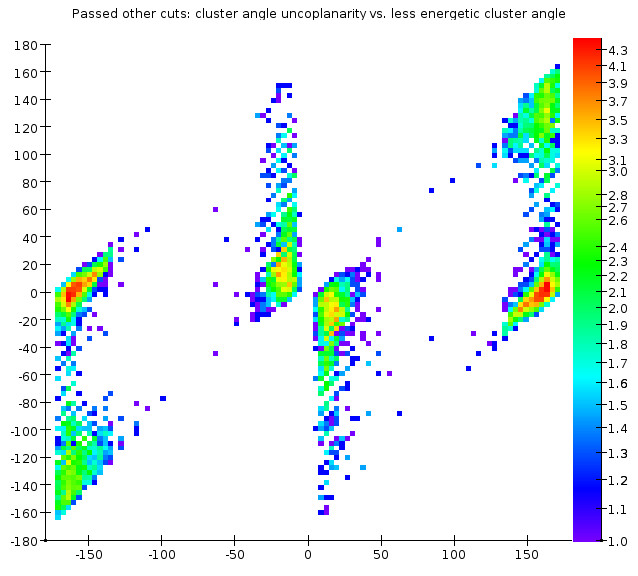
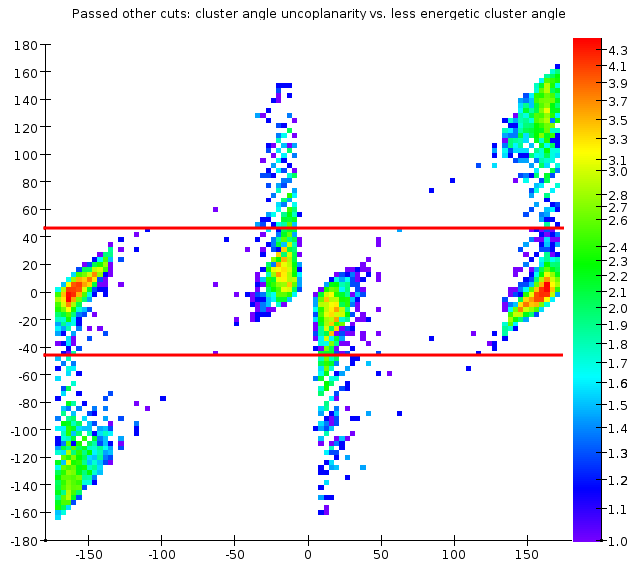
clarifications on trigger plots; updated A' efficiency plot and trigger rates

Changed region(s): [[0.0596, 0.5938, 0.8934, 0.625], [0.0596, 0.375, 0.8934, 0.4062]]

diff --git a/performance/trigger/ecal_trigger.tex b/performance/trigger/ecal_trigger.tex
@@ -12,24 +12,26 @@ This is a faithful simulation of the detector, DAQ and trigger and has been test
 The trigger parameters described in Section \ref{sec:triggerdaq} are chosen by running the simulation and plotting the relevant variables for beam background and A' events. 
 This is done for each beam energy and a set of A' masses for each beam energy. Examples of these comparisons are shown in Figures \ref{fig:coplanarity}, \ref{fig:energy-distance} and \ref{fig:ediff}.
 
+These cuts are chosen to lie between the loosest reasonable values (accept as many A' events as possible) and the tightest (reject as many background events as possible). 
+
 \begin{figure}[ht]
 	\includegraphics[width=0.4\textwidth]{performance/trigger/coplanarity_22}
 	\includegraphics[width=0.4\textwidth]{performance/trigger/coplanarity_22_075mev}
-	\caption{\small{Deviation of cluster pairs from coplanarity (units of degrees) for 2.2 GeV beam; background and 75 MeV A' tridents are shown.}}
+	\caption{\small{Deviation of cluster pairs from coplanarity (units of degrees) for 2.2 GeV beam; background and 75 MeV A' tridents are shown. The X-axis is the azimuth around the beam axis ($\phi_1$) of the lower-energy cluster, such that 0 degrees is the positron side of the detector and 180 degrees is the electron side; the Y-axis is the difference between the azimuth angles ($\phi_1-\phi_2 - 180$) of the two clusters. The coplanarity cut's acceptance region is the space between the red lines.}}
 	\label{fig:coplanarity}
 \end{figure}
 
 \begin{figure}[ht]
 	\includegraphics[width=0.4\textwidth]{performance/trigger/energy-distance_22}
 	\includegraphics[width=0.4\textwidth]{performance/trigger/energy-distance_22_075mev}
-	\caption{\small{Energy and distance from beam axis of the lower-energy cluster, for 2.2 GeV beam; background and 75 MeV A' tridents are shown.}}
+	\caption{\small{Energy and distance from beam axis of the lower-energy cluster, for 2.2 GeV beam; background and 75 MeV A' tridents are shown. The energy-distance cut's acceptance region is above the red line.}}
 	\label{fig:energy-distance}
 \end{figure}
 
 \begin{figure}[ht]
 	\includegraphics[width=0.4\textwidth]{performance/trigger/ediff_22}
 	\includegraphics[width=0.4\textwidth]{performance/trigger/ediff_22_075mev}
-	\caption{\small{Energy sum and difference of cluster pairs, for 2.2 GeV beam; background and 75 MeV A' tridents are shown.}}
+	\caption{\small{Energy sum and difference of cluster pairs, for 2.2 GeV beam; background and 75 MeV A' tridents are shown. The energy difference cut's acceptance region is left of the red line.}}
 	\label{fig:ediff}
 \end{figure}
 
@@ -40,7 +42,7 @@ The following trigger parameters were determined to be independent of beam energ
 	\item Energy-distance energy ($E_{edist}$): $0.5\times E_{beam}$
 \end{itemize}
 
-The remaining trigger parameters given in Section \ref{sec:triggerdaq} do not have a significant effect on specificity of the trigger.
+The remaining trigger parameters available in Section \ref{sec:triggerdaq} do not have a significant effect on specificity of the trigger.
 
 \begin{table}
 	\begin{tabular}{|l|r|r|r|}
@@ -58,8 +60,9 @@ The remaining trigger parameters given in Section \ref{sec:triggerdaq} do not ha
 
 Trigger efficiency for A' events is defined as the fraction of A' tridents (generated without fiducial cuts) that produce a trigger.
 
-Trigger rates are shown in Table \ref{tab:trigrates}. These rates are safely under the maximum readout rate of 43 kHz set by the SVT. 
-The addition of pions to the 6.6 GeV background sample does not have a significant effect on the trigger rate.
+Trigger rates are shown in Table \ref{tab:trigrates}. These rates are safely (by a factor of 2 or more) under the maximum readout rate of 43 kHz set by the SVT. 
+Furthermore, tightening the coplanarity and energy-distance cuts lowers trigger rates to $\approx 10$ kHz at 1.1 and 2.2 GeV and $\approx 5$ kHz at 6.6 GeV, while reducing the A' efficiency by no more than 2 percentage points; this provides further safety margin in case trigger or data rates are higher than expected.
+The addition of pions to the 6.6 GeV background sample has only a small effect on the trigger rate.
 
 \begin{table}
 	\begin{tabular}{|l|r|}
@@ -67,16 +70,16 @@ The addition of pions to the 6.6 GeV background sample does not have a significa
 		Sample &  Rate (kHz)\\
 		\hline
 		1.1 GeV	EGS5 				& 15.7 $\pm$ 0.4	\\
-		1.1 GeV EGS5+tridents			& 17.6 $\pm$ 0.6	\\
+		1.1 GeV EGS5+tridents			& 18.3 $\pm$ 0.4	\\
 		2.2 GeV	EGS5 				& 11.2 $\pm$ 0.3	\\
 		2.2 GeV EGS5+tridents			& 15.8 $\pm$ 0.4	\\
 		6.6 GeV	EGS5 				& 10.2 $\pm$ 0.3	\\
 		6.6 GeV EGS5+tridents			& 12.6 $\pm$ 0.4	\\
-		%6.6 GeV EGS5+tridents+pions (FLUKA)	& 7.3 $\pm$ 0.3	\\
-		%6.6 GeV EGS5+tridents+pions (G4)	& 7.0 $\pm$ 0.3	\\
+		6.6 GeV EGS5+tridents+pions (FLUKA)	& 13.4 $\pm$ 0.4	\\
+		6.6 GeV EGS5+tridents+pions (G4)	& 13.5 $\pm$ 0.4	\\
 		\hline
 	\end{tabular}
-	\caption{ {\small Trigger rates using various background samples. }
+	\caption{ {\small Trigger rates using various background samples, with statistical uncertainties. }
 	\label{tab:trigrates}}
 \end{table}
 
